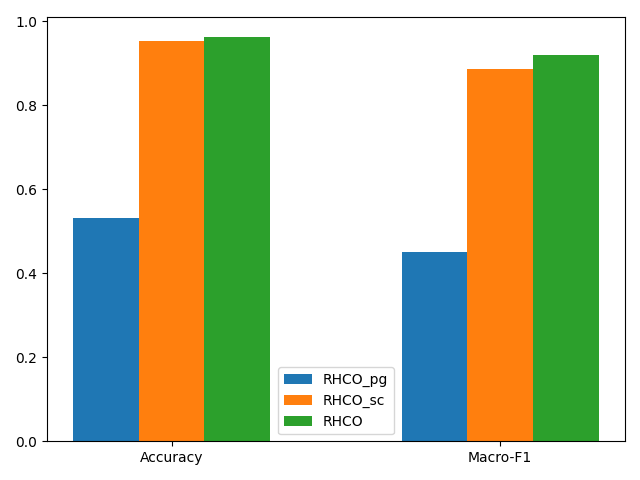
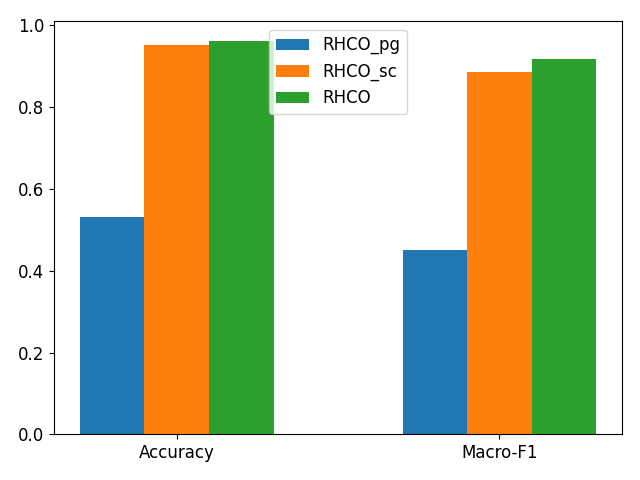
调整实验结果图的字体大小

diff --git a/gnnrec/hge/result/plot.py b/gnnrec/hge/result/plot.py
@@ -18,7 +18,7 @@ def plot_param_analysis():
         ax.plot(x, df[f'Macro-F1_{p}'].dropna().to_numpy(), '*--', label='Macro-F1')
         ax.set_xlabel(p)
         ax.set_ylabel('Accuracy / Macro-F1')
-        ax.legend()
+        ax.legend(loc='center right')
         fig.savefig(RESULT_DIR / f'param_analysis_{p}.png')
 
 
@@ -34,12 +34,13 @@ def plot_ablation_study():
         for r, model in zip(range(-1, 2), ('RHCO_pg', 'RHCO_sc', 'RHCO')):
             ax.bar(x + r * width, df[model][i * 2:(i + 1) * 2].to_numpy(), width, label=model)
         ax.set_xticks(x, labels)
-        ax.legend()
+        ax.legend(loc='upper center')
         fig.tight_layout()
         fig.savefig(RESULT_DIR / f'ablation_study_{d}.png')
 
 
 def main():
+    plt.rcParams['font.size'] = 12
     plot_param_analysis()
     plot_ablation_study()
 

diff --git a/gnnrec/kgrec/result/plot.py b/gnnrec/kgrec/result/plot.py
@@ -37,6 +37,7 @@ def plot_param_analysis():
 
 
 def main():
+    plt.rcParams['font.size'] = 12
     plot_rank()
     plot_param_analysis()
 
